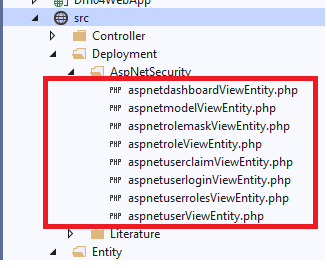
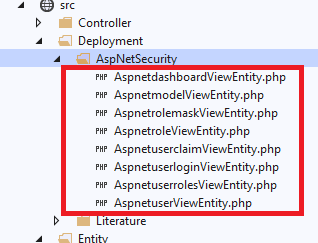
symfony php

diff --git a/CS2WPF/ViewModel/MainWindowWpfScripts.cs b/CS2WPF/ViewModel/MainWindowWpfScripts.cs
@@ -531,12 +531,19 @@ namespace CS2WPF.ViewModel
             try
             {
                 // insert code here
-
+                string lflnm = (SelectFolderUC.DataContext as SelectFolderViewModel).FileName;
+                if (
+                    (string.Compare("php", (GenerateUC.DataContext as GenerateCommonStaffViewModel).FileExtension, StringComparison.OrdinalIgnoreCase ) == 0) ||
+                    (string.Compare(".php", (GenerateUC.DataContext as GenerateCommonStaffViewModel).FileExtension, StringComparison.OrdinalIgnoreCase) == 0)
+                    )
+                {
+                    lflnm = lflnm.FirstLetterToUpper();
+                }
                 SolutionDirectory = System.IO.Path.GetDirectoryName(Dte.Solution.FullName);
                 string FlNm = Path.Combine(
                     (InvitationUC.DataContext as InvitationViewModel).DestinationProjectRootFolder,
                     (CreateWebApiUC.DataContext as CreateWebApiViewModel).DestinationFolder,
-                    (SelectFolderUC.DataContext as SelectFolderViewModel).FileName
+                    lflnm // (SelectFolderUC.DataContext as SelectFolderViewModel).FileName
                     + (GenerateUC.DataContext as GenerateCommonStaffViewModel).FileExtension);
                 File.WriteAllText(FlNm, (GenerateUC.DataContext as GenerateCommonStaffViewModel).GenerateText);
                 DestinationProject.ProjectItems.AddFromFile(FlNm);

diff --git a/CS2WPF/Helpers/BatchProcess/BatchSettingsHelper.cs b/CS2WPF/Helpers/BatchProcess/BatchSettingsHelper.cs
@@ -264,7 +264,15 @@ namespace CS2WPF.Helpers.BatchProcess
                 DestinationSubFolder);
             }
             System.IO.Directory.CreateDirectory(FlNm);
-            FlNm = Path.Combine(FlNm, FileName + FileExtension);
+            string lflnm = FileName;
+            if ( 
+                (string.Compare("php",FileExtension, System.StringComparison.OrdinalIgnoreCase) == 0 ) ||
+                (string.Compare(".php", FileExtension, System.StringComparison.OrdinalIgnoreCase) == 0)
+               )
+            {
+                lflnm = lflnm.FirstLetterToUpper();
+            }
+            FlNm = Path.Combine(FlNm, lflnm + FileExtension);
             File.WriteAllText(FlNm, GenerateText);
             DestinationProject.ProjectItems.AddFromFile(FlNm);
         }
